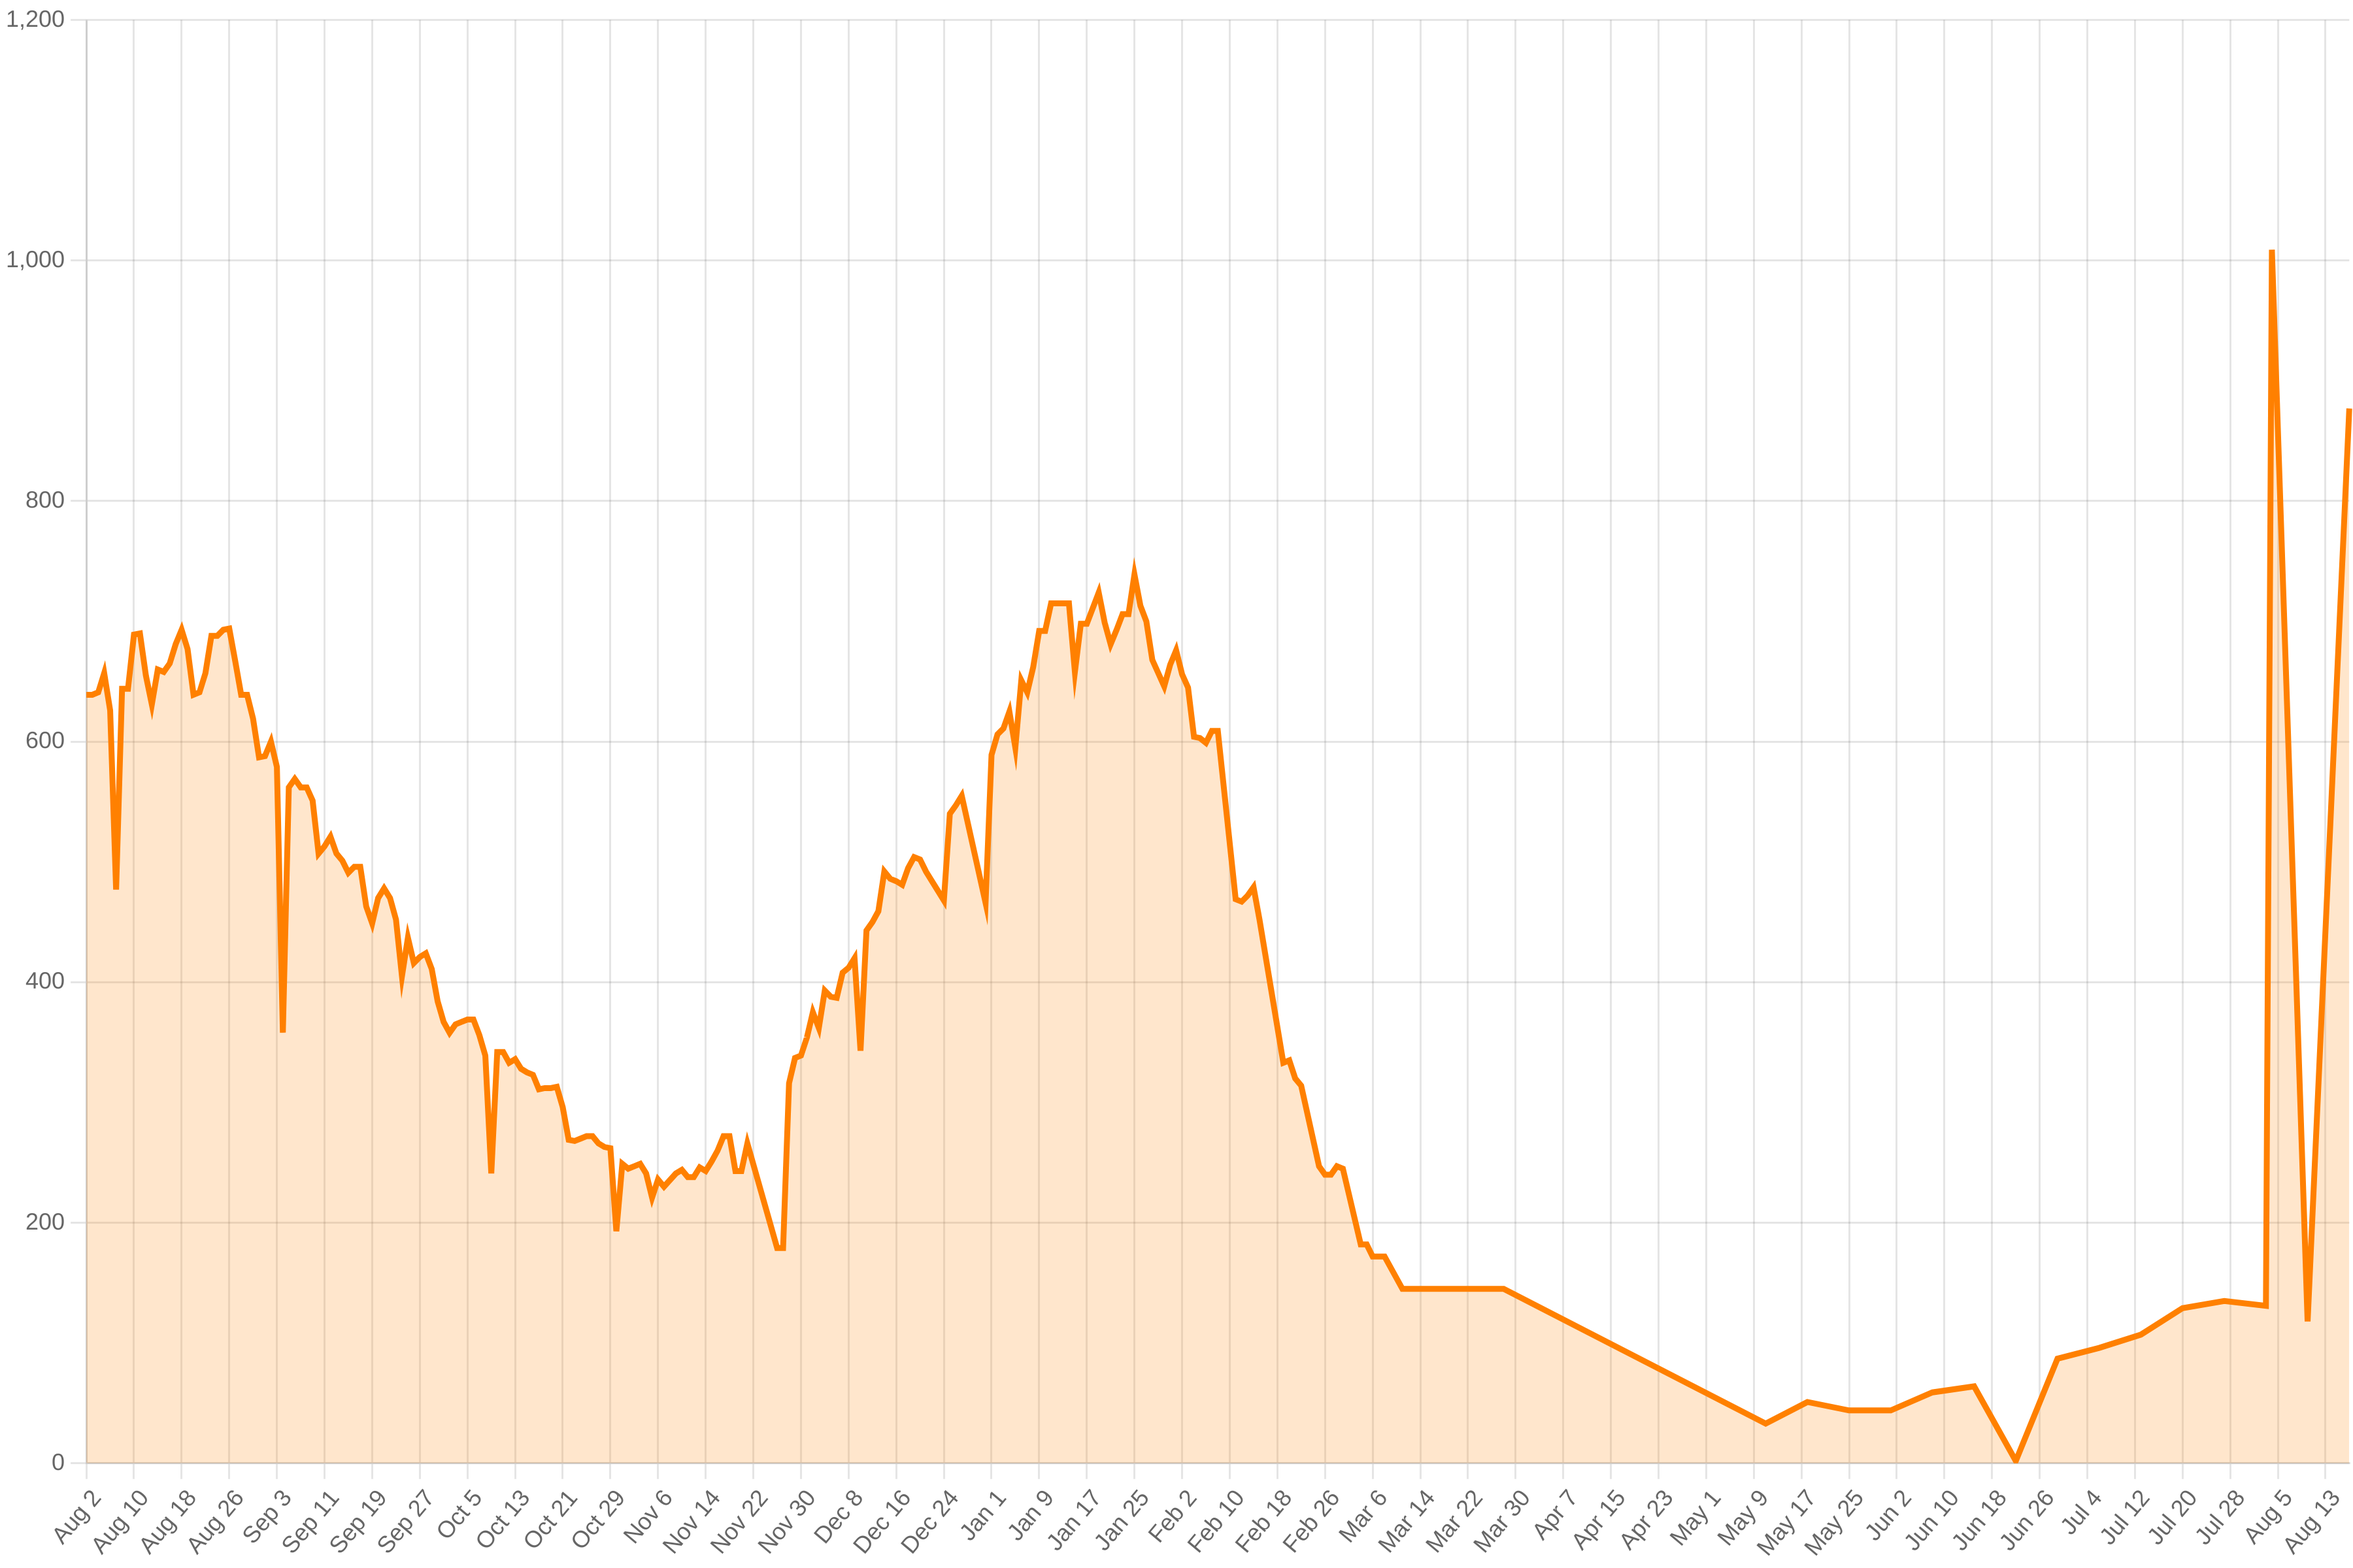
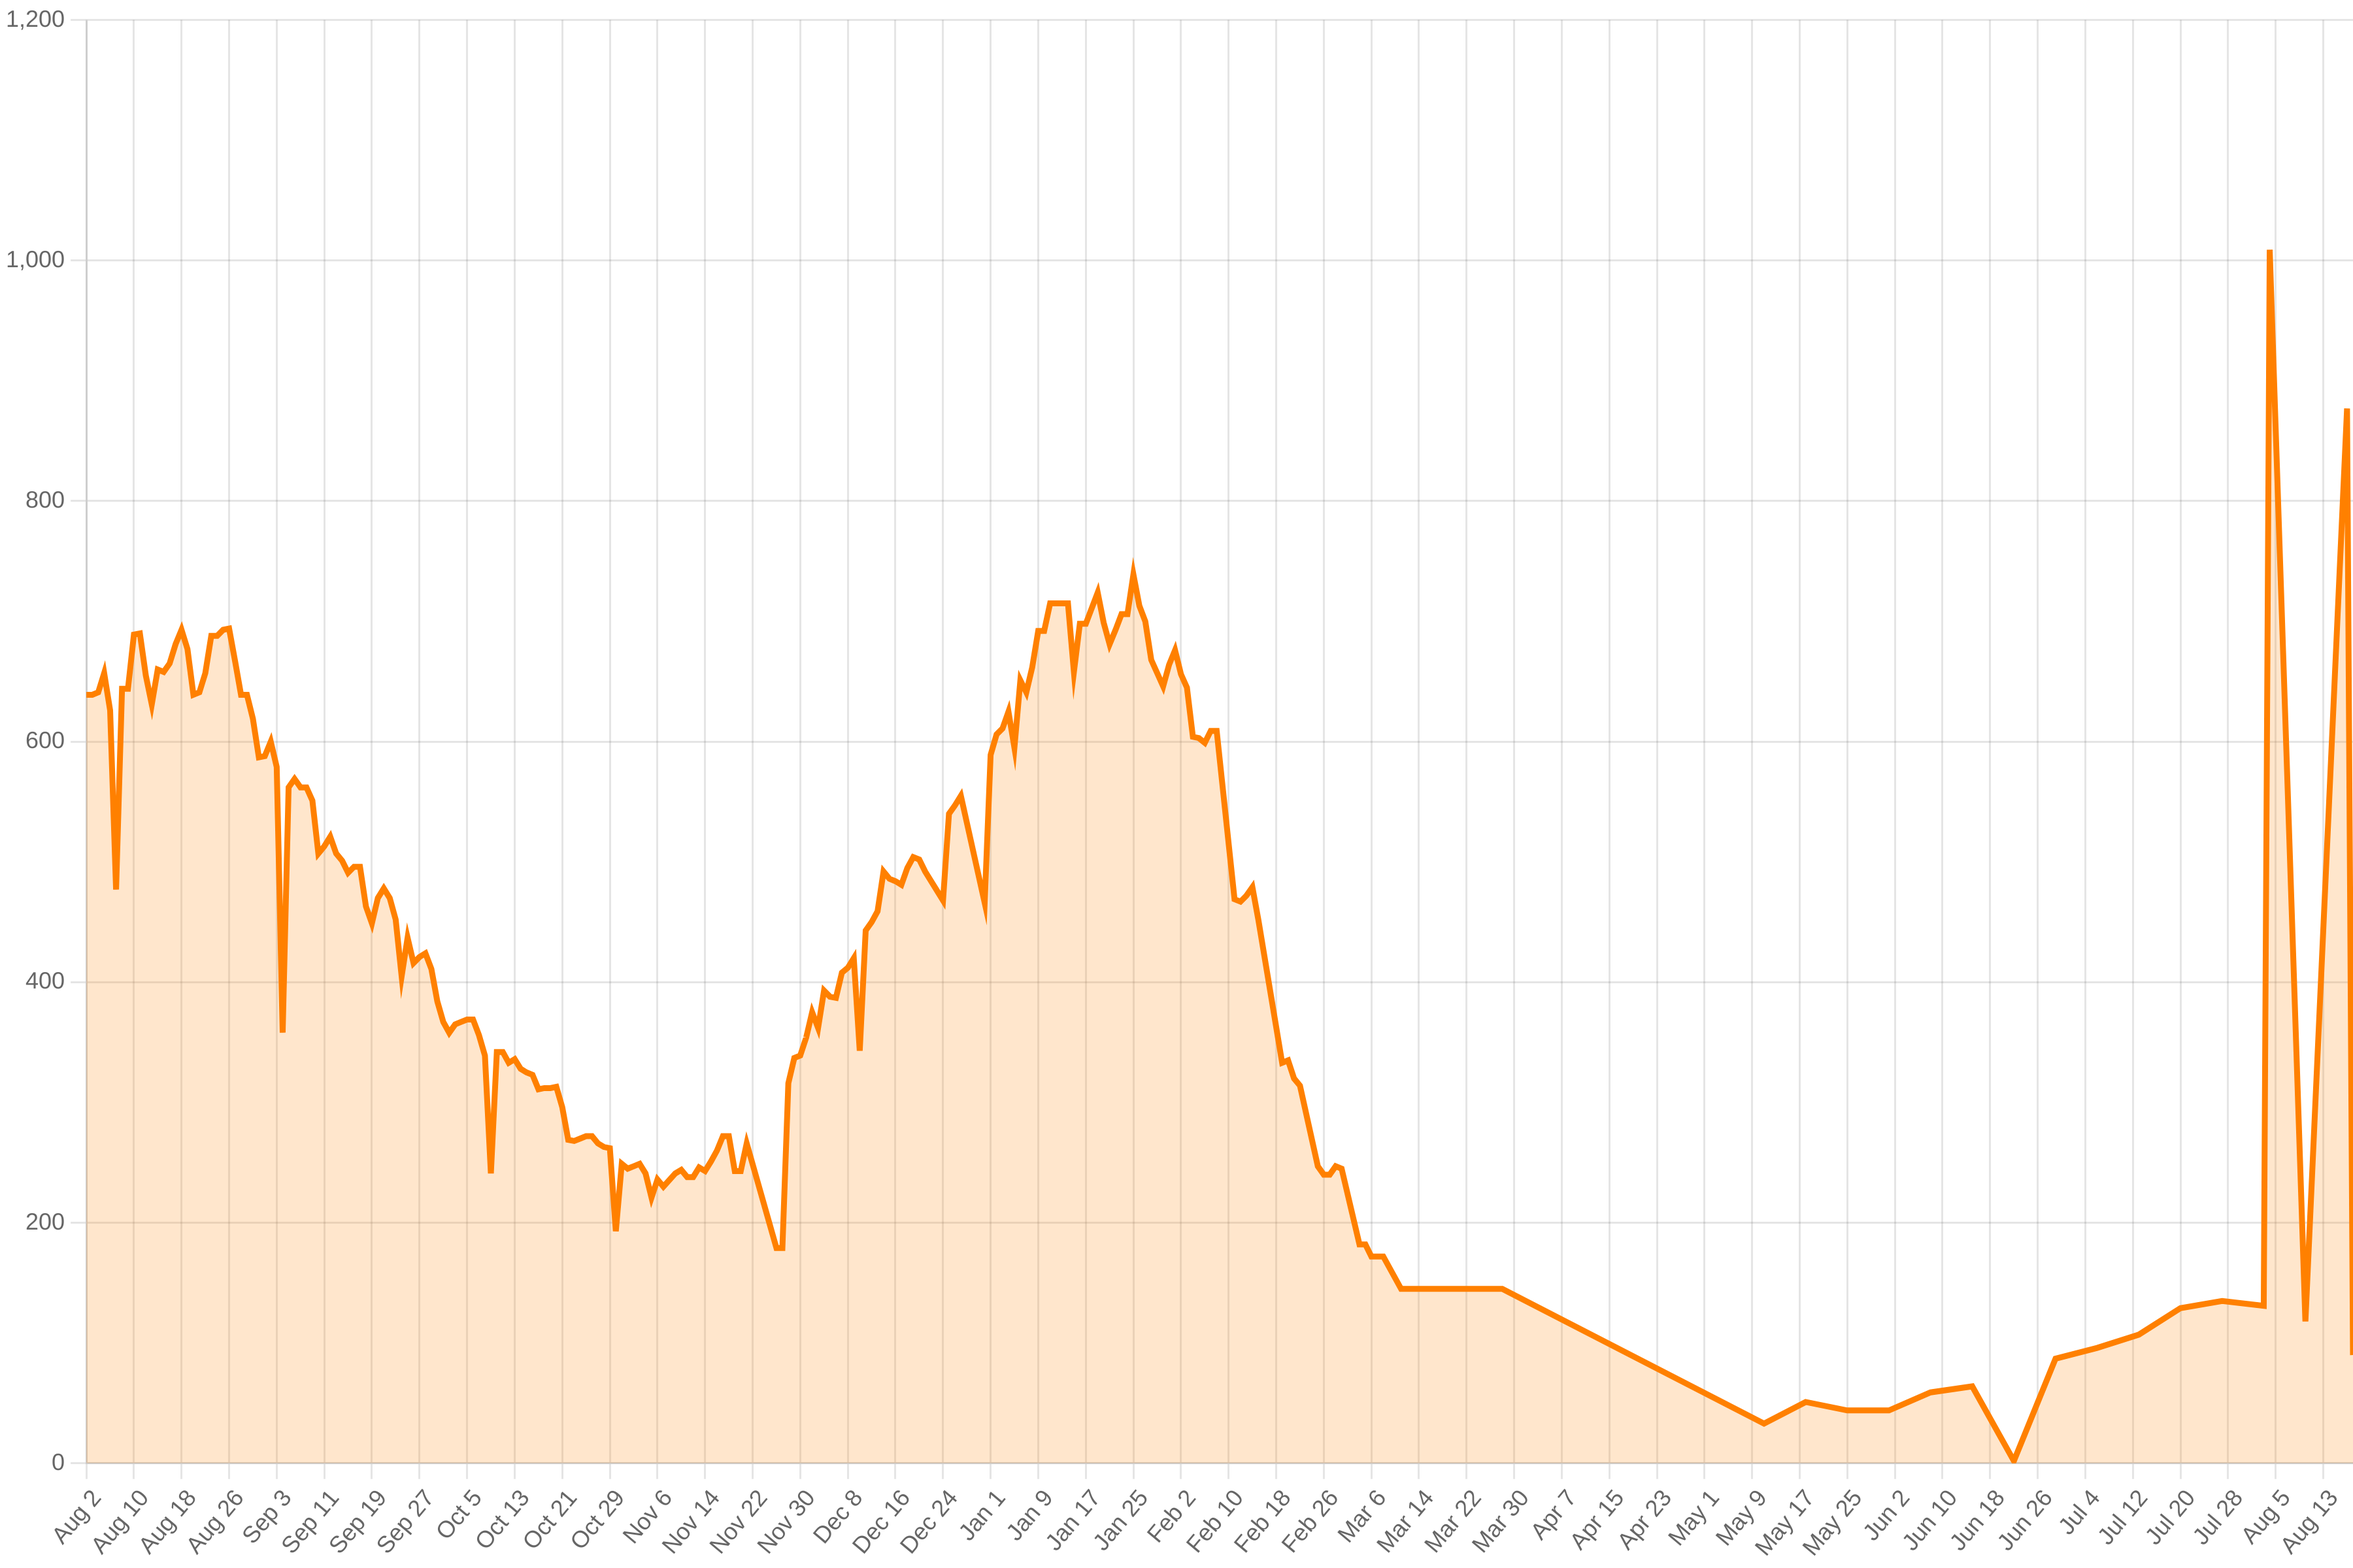
regular update

diff --git a/docs/index.html b/docs/index.html
@@ -43,10 +43,10 @@
     <main>
       <h1>Missouri COVID data</h1>
       <p>
-        The data on this page was updated <strong>Friday, August 19, 2022</strong>. For
+        The data on this page was updated <strong>Saturday, August 20, 2022</strong>. For
         the values that are averages over 7 days, the start date is
-        <strong>Thursday, August 11, 2022</strong> and the end date is
-        <strong>Wednesday, August 17, 2022</strong>. The original data comes from the
+        <strong>Friday, August 12, 2022</strong> and the end date is
+        <strong>Thursday, August 18, 2022</strong>. The original data comes from the
         <a
           href="https://results.mo.gov/t/COVID19/views/WeeklyCOVIDMockup_16487370423730/WeeklyReport-Revised-v2?:embed=y&:showVizHome=no&:host_url=https%3A%2F%2Fresults.mo.gov%2F&:embed_code_version=3&:tabs=no&:toolbar=no&:showAppBanner=false&:display_spinner=no&:loadOrderID=0"
           >Missouri Department of Health and Senior Services</a
@@ -79,8 +79,8 @@
 
       <h2>New cases</h2>
       <p>
-        There have been <strong>3,787</strong> new cases in the
-        past 7 days, about <strong>541 per day</strong>.
+        There have been <strong>7,236</strong> new cases in the
+        past 7 days, about <strong>1,034 per day</strong>.
       </p>
       <img src="charts/totalPositive.png" />
 
@@ -91,7 +91,7 @@
       </p>
       <img src="charts/hospitalizations.png" />
 
-      <p>877 people are in intensive care.</p>
+      <p>90 people are in intensive care.</p>
       <img src="charts/icu.png" />
 
       <h2>Unavailable</h2>
